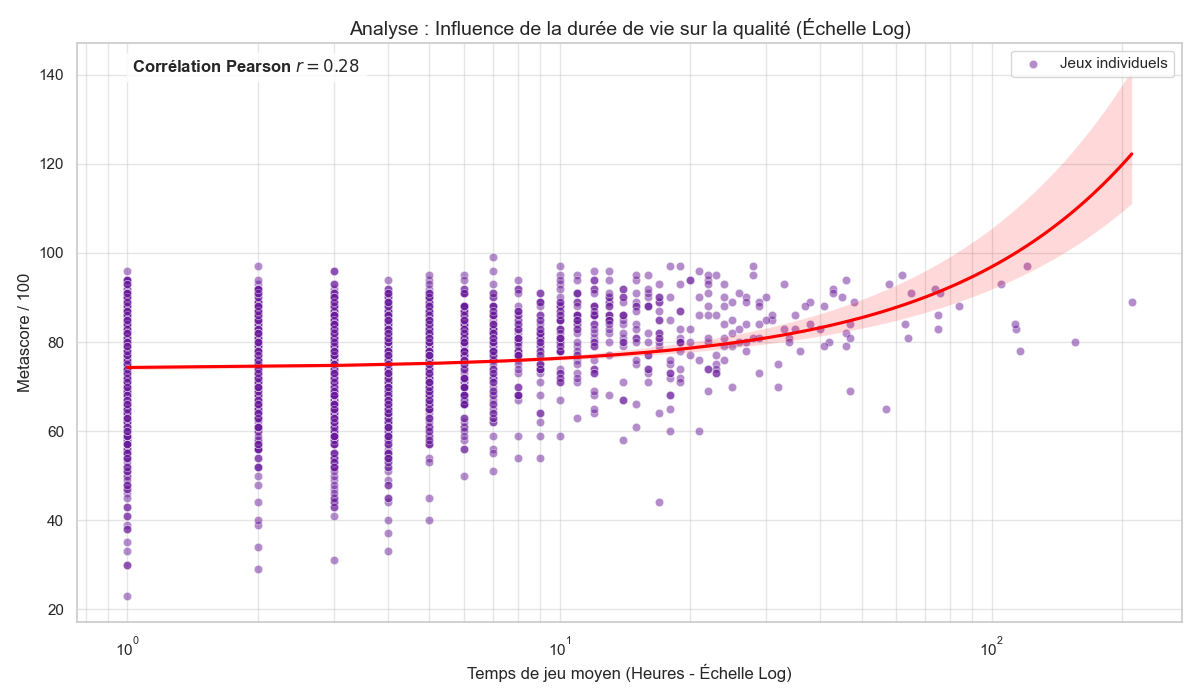
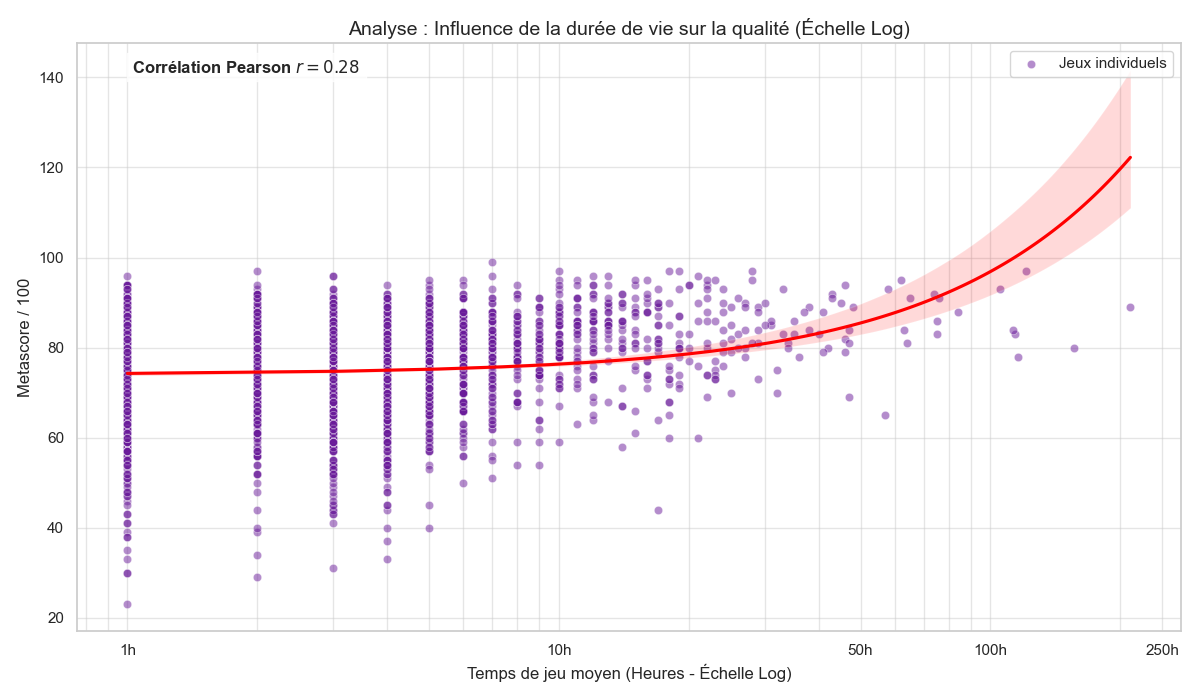
modif + ajout d'un graph

diff --git a/Data_viz.py b/Data_viz.py
@@ -3,6 +3,7 @@ import matplotlib.pyplot as plt
 import seaborn as sns
 from scipy.stats import pearsonr
 import numpy as np
+import matplotlib.ticker as ticker
 # 1: Chargement des données
 path = r'L:\BUT\SD\Promo 2024\talshawwa\SAE_web_Scrapping\Data_JV.csv'
 df = pd.read_csv(path, sep=';', encoding='latin1')
@@ -154,6 +155,13 @@ sns.scatterplot(data=df_clean, x='Playtime_Num', y='Metascore',
 # AJOUT : Échelle logarithmique sur l'axe X
 plt.xscale('log')
 
+
+# 2. AJOUTER ces lignes pour changer le format des étiquettes (10^1 -> 10)
+plt.gca().xaxis.set_major_formatter(ticker.ScalarFormatter())
+
+# 3. FACULTATIF : Forcer des paliers spécifiques pour plus de clarté
+plt.xticks([1, 10, 50, 100, 250], ['1h', '10h', '50h', '100h', '250h'])
+
 # AJOUT : Courbe LOESS (Tendance non-linéaire souple)
 sns.regplot(data=df_clean, x='Playtime_Num', y='Metascore', 
             scatter=False, color='red')
@@ -183,7 +191,7 @@ dev_stats = df.groupby('Developpeur').agg({'Metascore': ['mean', 'count']})
 dev_stats.columns = ['Score_Moyen', 'Nombre_Jeux']
 
 # Filtrer pour les studios avec au moins 3 jeux et trier
-top_rated = dev_stats[dev_stats['Nombre_Jeux'] > 2].sort_values(by='Score_Moyen', ascending=False).head(10)
+top_rated = dev_stats[dev_stats['Nombre_Jeux'] > 2].sort_values(by='Score_Moyen', ascending=False).head(8)
 
 plt.figure(figsize=(14, 8))
 
@@ -200,12 +208,43 @@ plt.xlabel('Studio de Développement', fontsize=12)
 plt.xticks(rotation=45, ha='right') 
 
 # Ajout des étiquettes de score 
+# Updated loop to show decimals (ex: 87.4 instead of 87)
 for i, v in enumerate(top_rated['Score_Moyen']):
     plt.text(i, v + 0.5, f"{v:.1f}", ha='center', fontweight='bold')
 
 plt.tight_layout()
 plt.savefig('final_top_qualite_vertical.png')
 print("Graphique vertical de qualité sauvegardé !")
+
+
+
+# --- VIZ : Nombre de jeux par Développeur par tranches de 5 ans (Empilé) ---
+print("Génération du graphique empilé Développeurs/Tranches...")
+
+# 1. Sélectionner les Top 10 développeurs (en excluant les noms non informatifs)
+df_clean_dev = df[~df['Developpeur'].isin(['Unknown', 'N/A', 'nan', 'TBA'])]
+top_10_devs = df_clean_dev['Developpeur'].value_counts().head(10).index
+df_top_dev = df_clean_dev[df_clean_dev['Developpeur'].isin(top_10_devs)].copy()
+
+# 2. Préparer les données (Table croisée)
+stacked_dev_data = df_top_dev.groupby(['Tranche_Années', 'Developpeur']).size().unstack(fill_value=0)
+
+# 3. Création du graphique
+plt.figure(figsize=(14, 8))
+# 'stacked=True' pour empiler les développeurs par tranche d'année
+stacked_dev_data.plot(kind='bar', stacked=True, ax=plt.gca(), colormap='viridis')
+
+# 4. Étiquettes et mise en forme
+plt.title('Production des Top 10 Développeurs par tranches de 5 ans', fontsize=14)
+plt.xlabel('Période (Tranche de 5 ans)', fontsize=12)
+plt.ylabel('Nombre de jeux développés', fontsize=12)
+plt.xticks(rotation=45)
+plt.legend(title='Développeurs', bbox_to_anchor=(1.05, 1), loc='upper left')
+
+plt.tight_layout()
+plt.savefig('developpeurs_empiles_par_tranche.png')
+print("Graphique empilé sauvegardé : developpeurs_empiles_par_tranche.png")
+
 
 
 print("Fini !")
